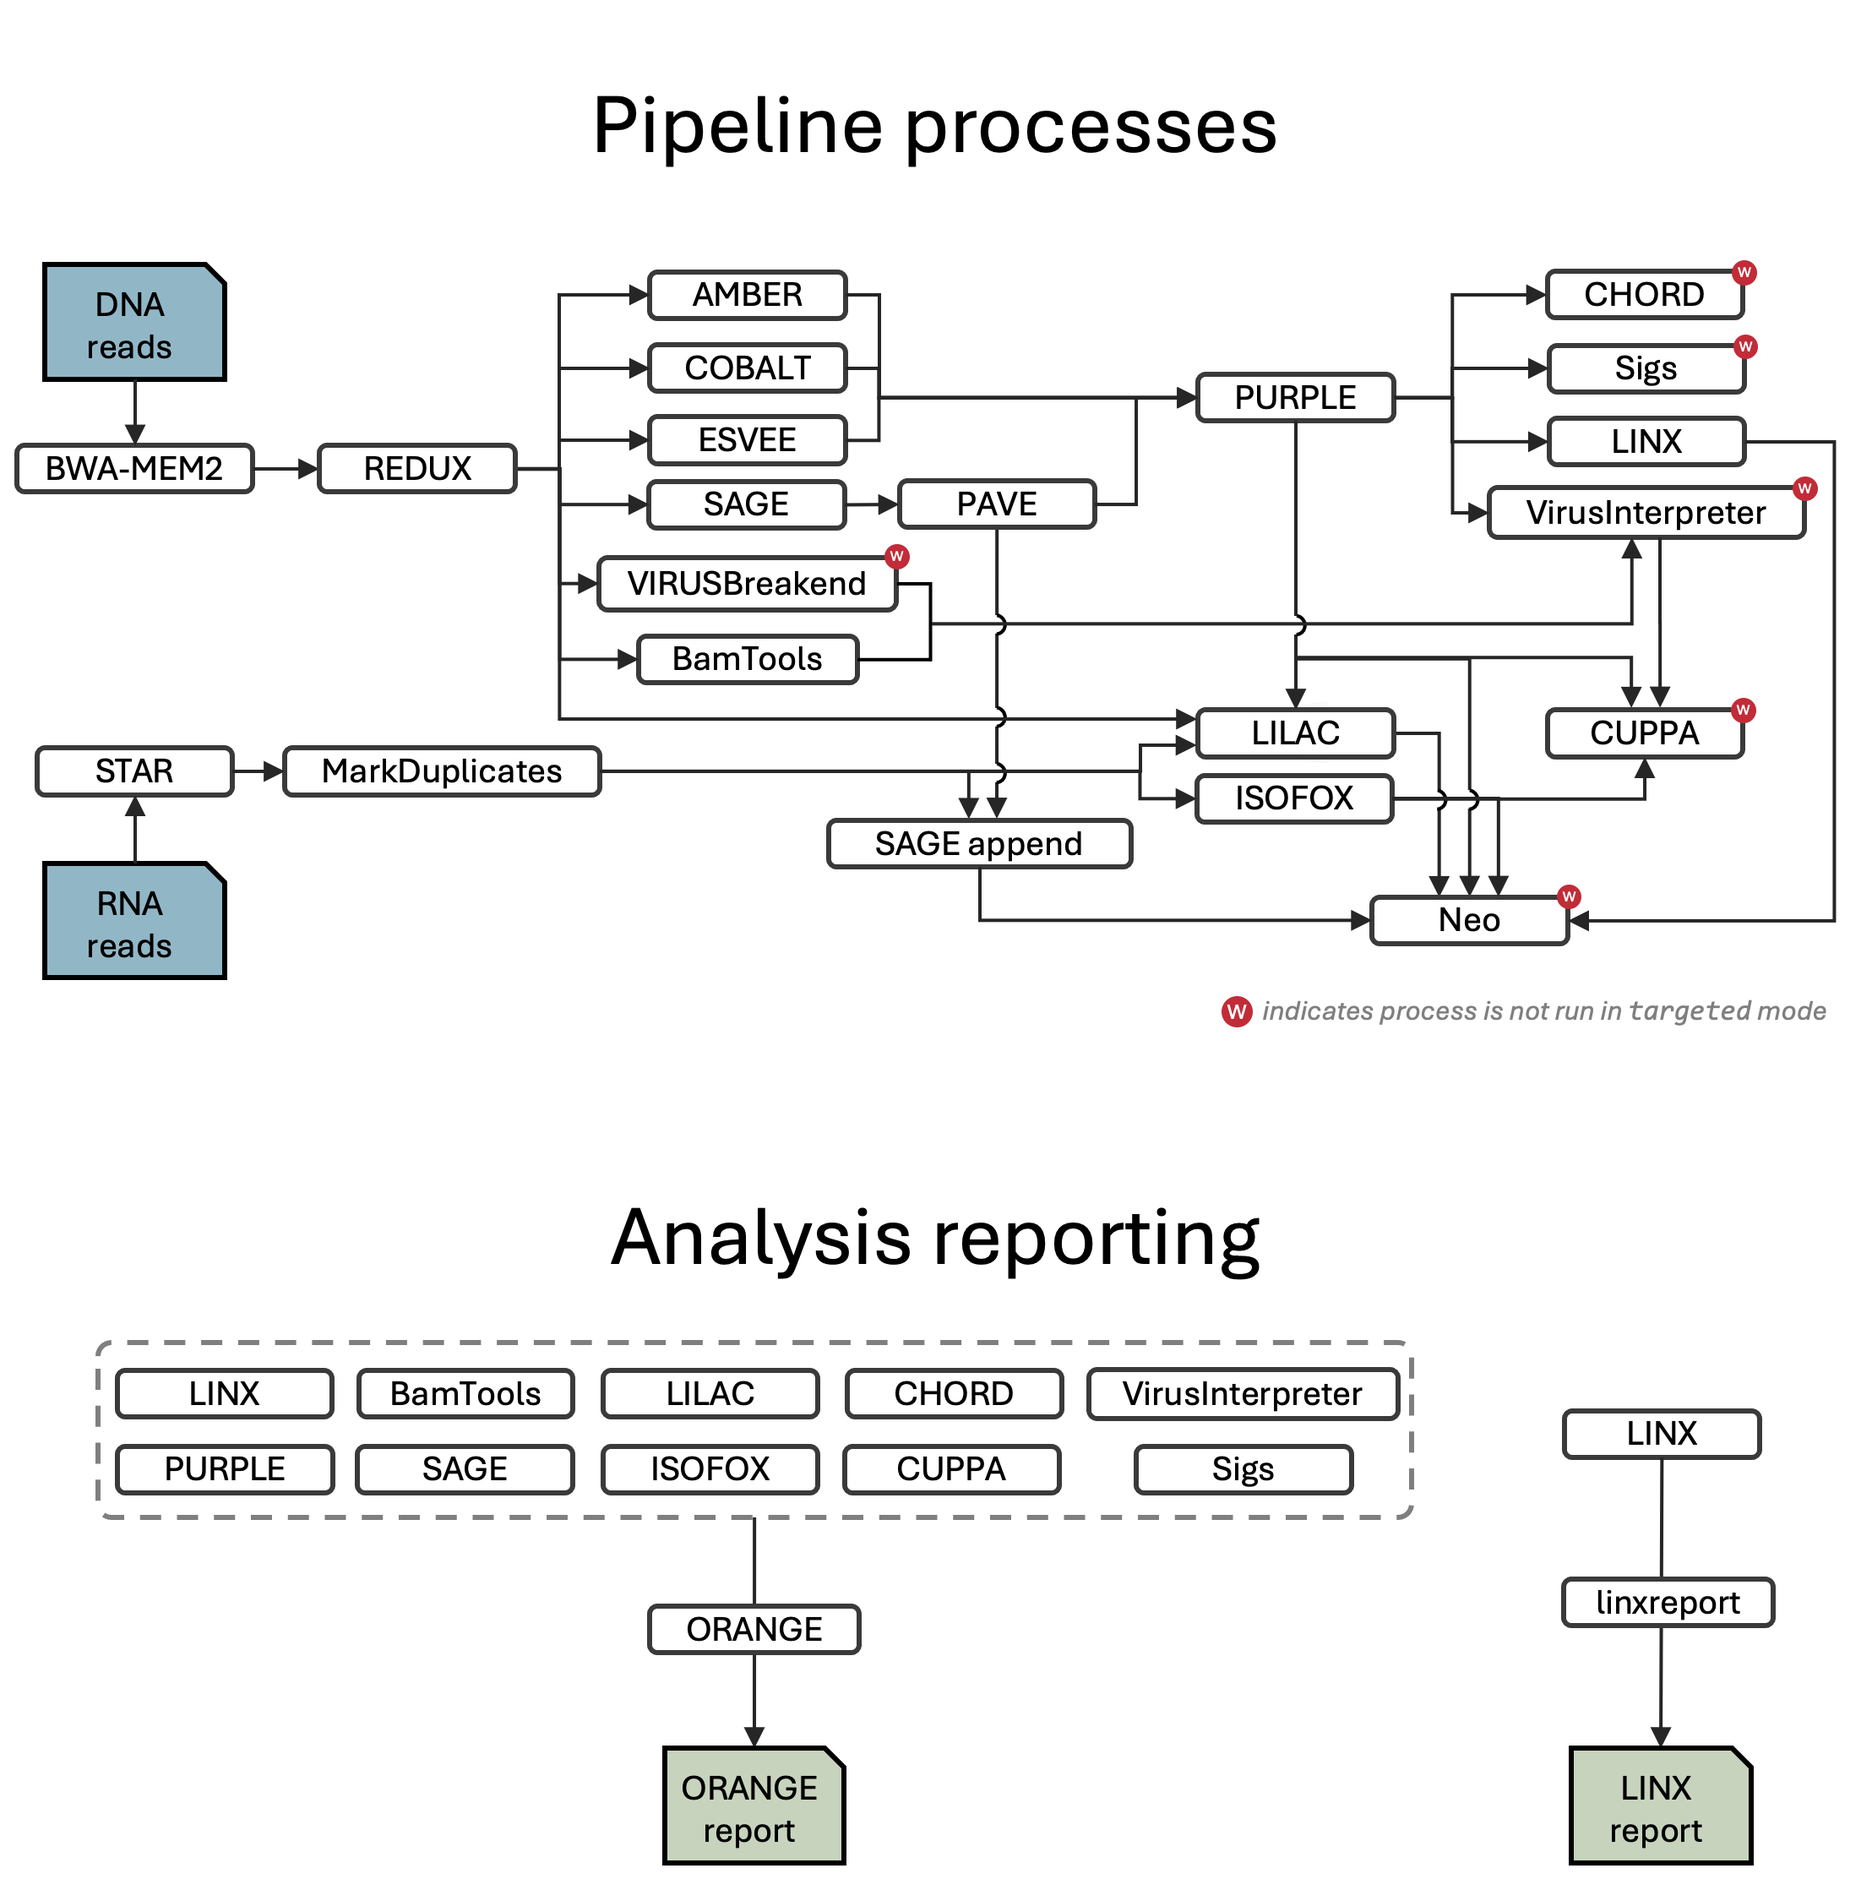
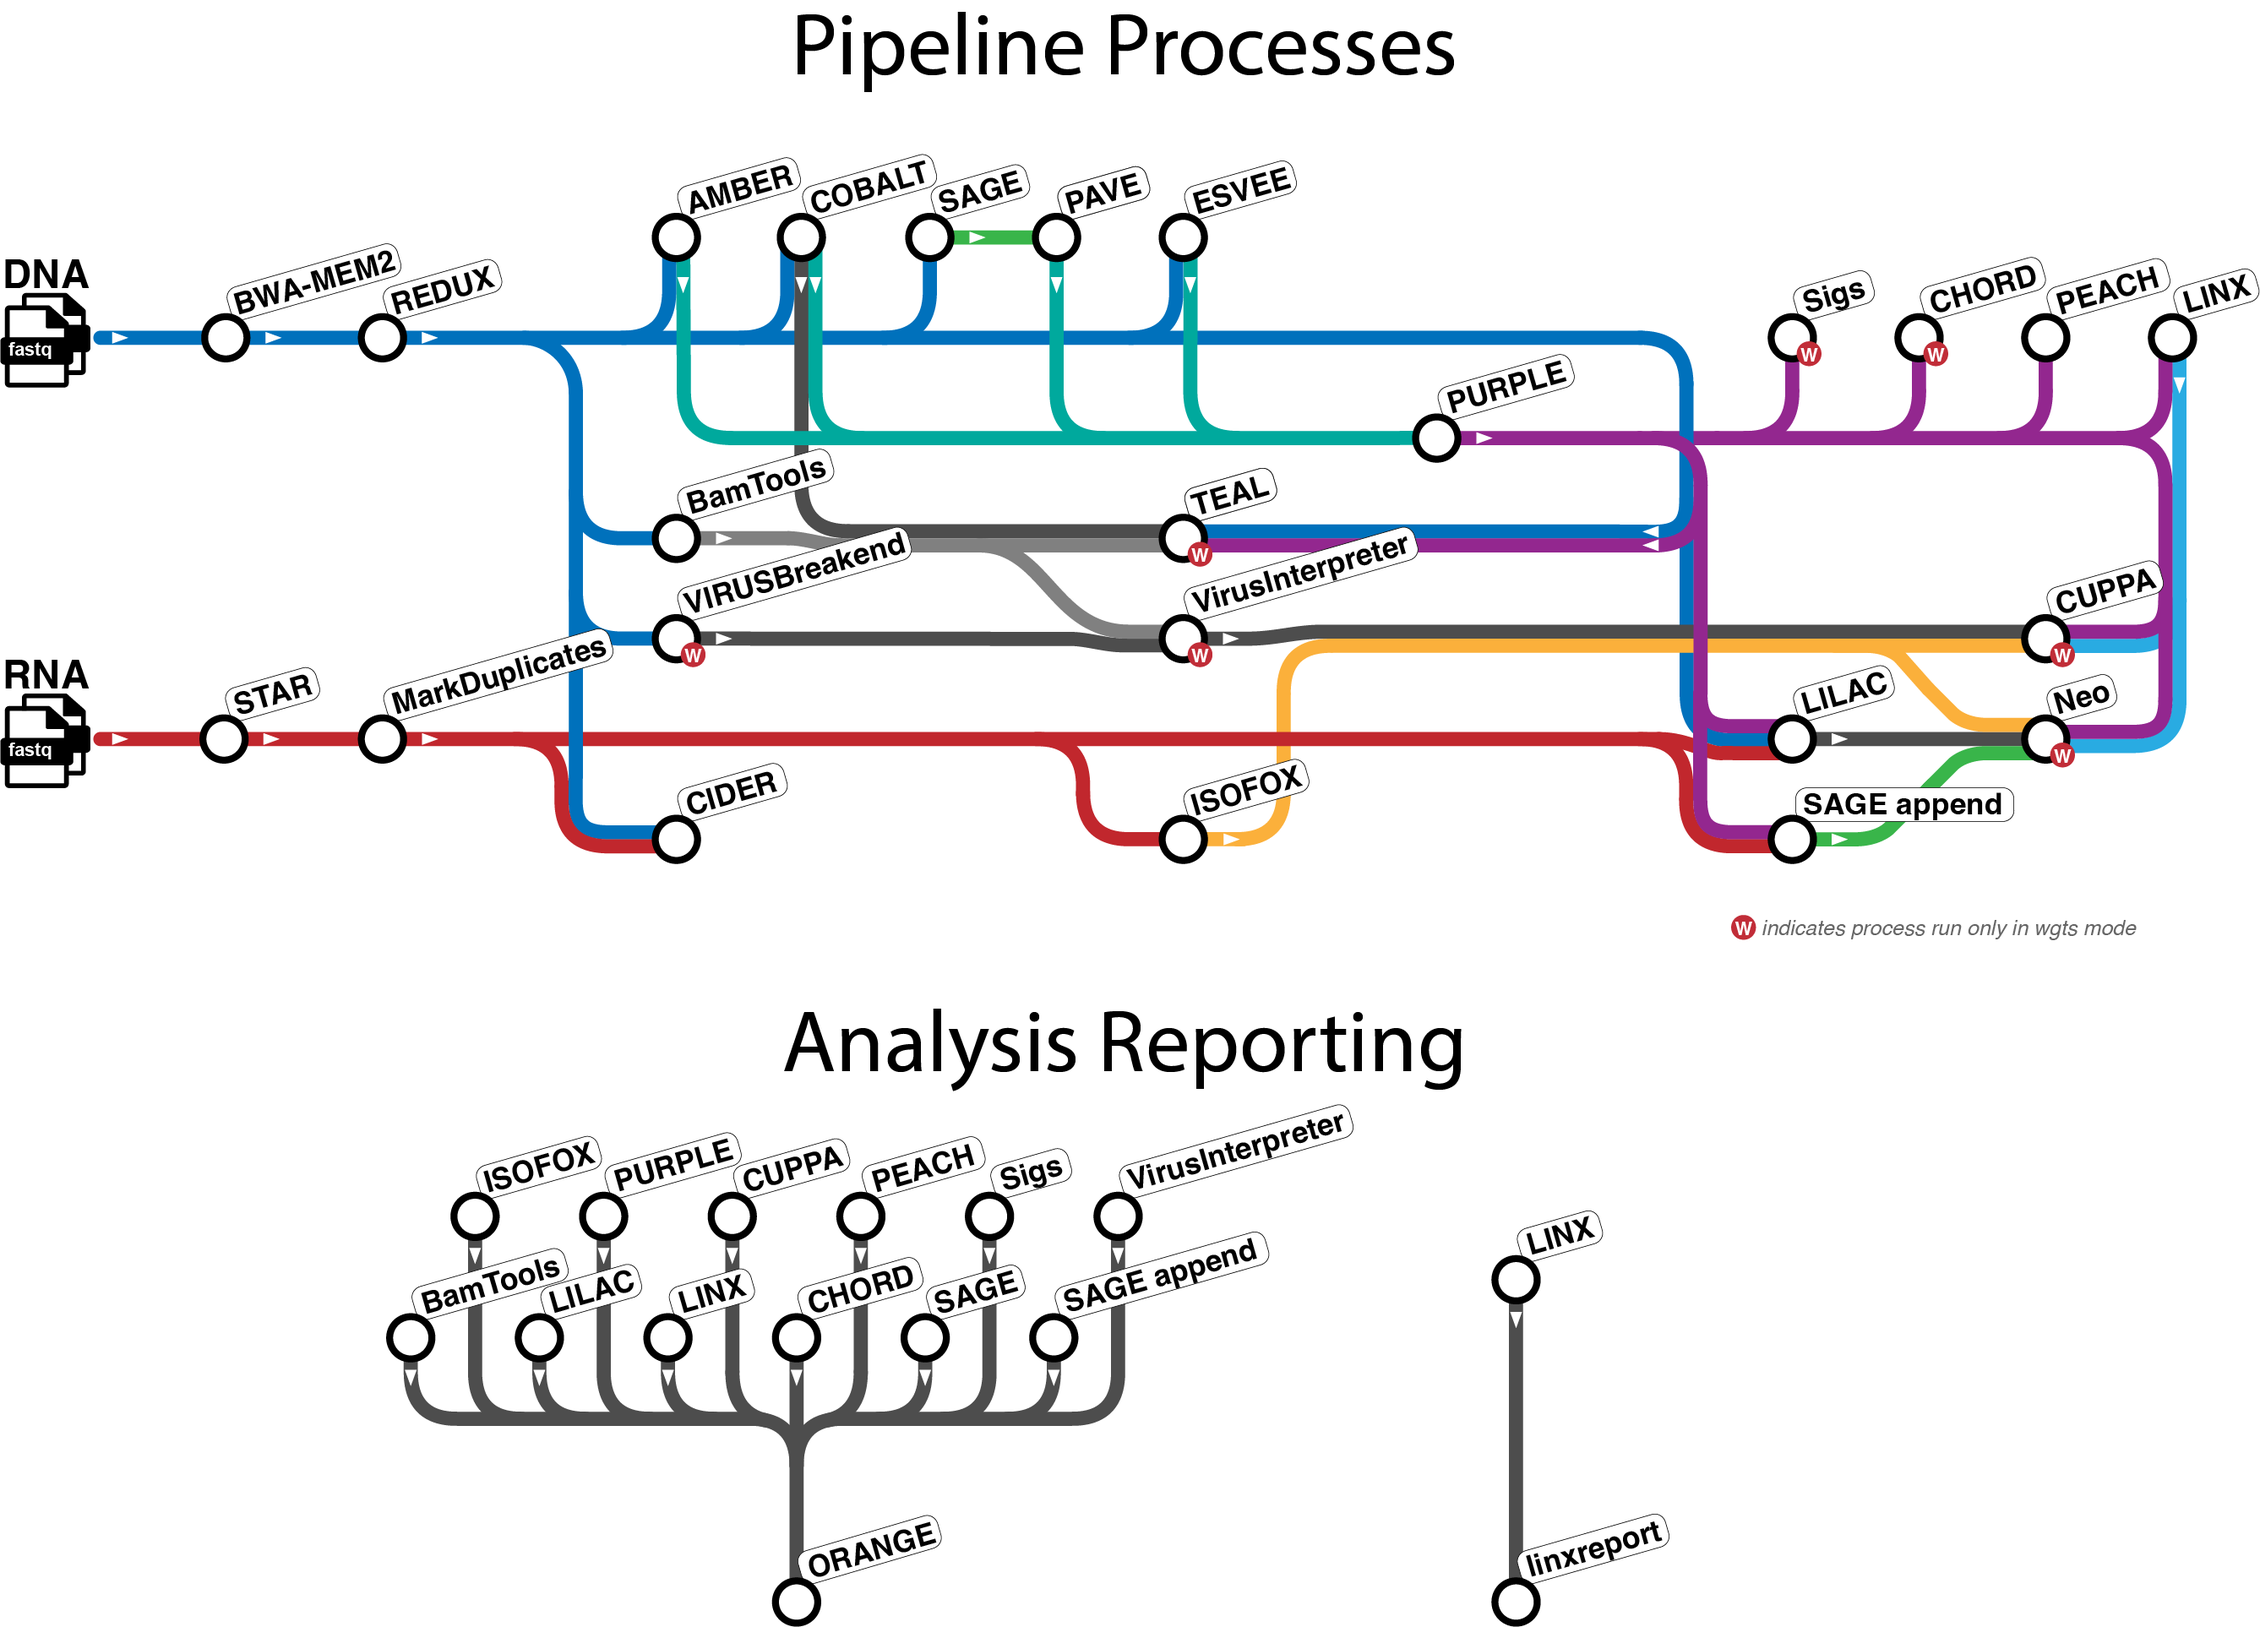
Add metromap-style diagram for pipeline overview

diff --git a/README.md b/README.md
@@ -42,7 +42,7 @@ supports a wide range of experimental setups:
 
 ## Pipeline overview
 
-<p align="center"><img width="550" src="docs/images/oncoanalyser_pipeline.png"></p>
+<p align="center"><img src="docs/images/oncoanalyser_pipeline.png"></p>
 
 The pipeline mainly uses tools from [WiGiTS](https://github.com/hartwigmedical/hmftools), as well as some external
 tools. Due to the limitations of panel data, certain tools (indicated with `*` below) do not run in `targeted` mode.
